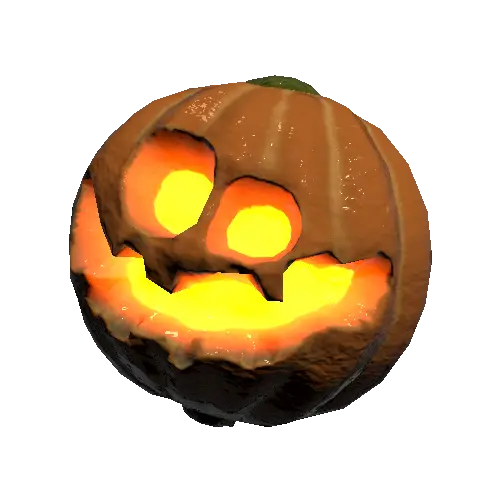
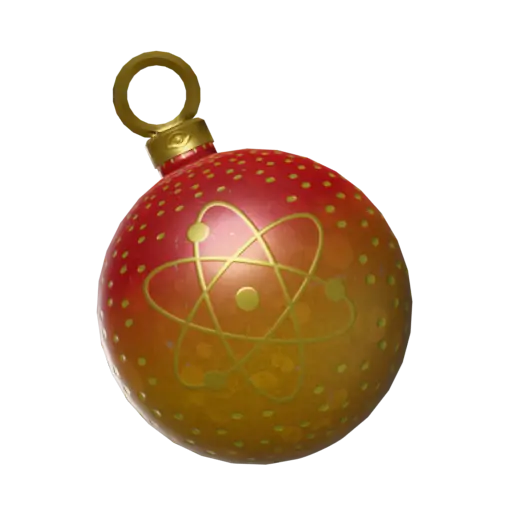
021-J + update 018 image

diff --git a/src/types/item.ts b/src/types/item.ts
@@ -48,6 +48,7 @@ import scp1344 from "../assets/images/SCP-1344.webp";
 import scp1576 from "../assets/images/SCP-1576.webp";
 import scp1853 from "../assets/images/SCP-1853.webp";
 import scp207 from "../assets/images/SCP-207.webp";
+import scp021j from "../assets/images/SCP-021-J.webp";
 import scp2176 from "../assets/images/SCP-2176.webp";
 import scp244a from "../assets/images/SCP-244-A.webp";
 import scp244b from "../assets/images/SCP-244-B.webp";
@@ -115,8 +116,11 @@ export const itemImages = {
     "SCP-1344": scp1344,
     "Surface Access Pass": surfaceAccess,
     "SCP-127": scp127,
-    "SCP-1509": scp1509
+    "SCP-1509": scp1509,
+    "SCP-021-J": scp021j
 } as const;
+
+console.log(Object.keys(itemImages));
 
 export type ItemType = keyof typeof itemImages;
 
